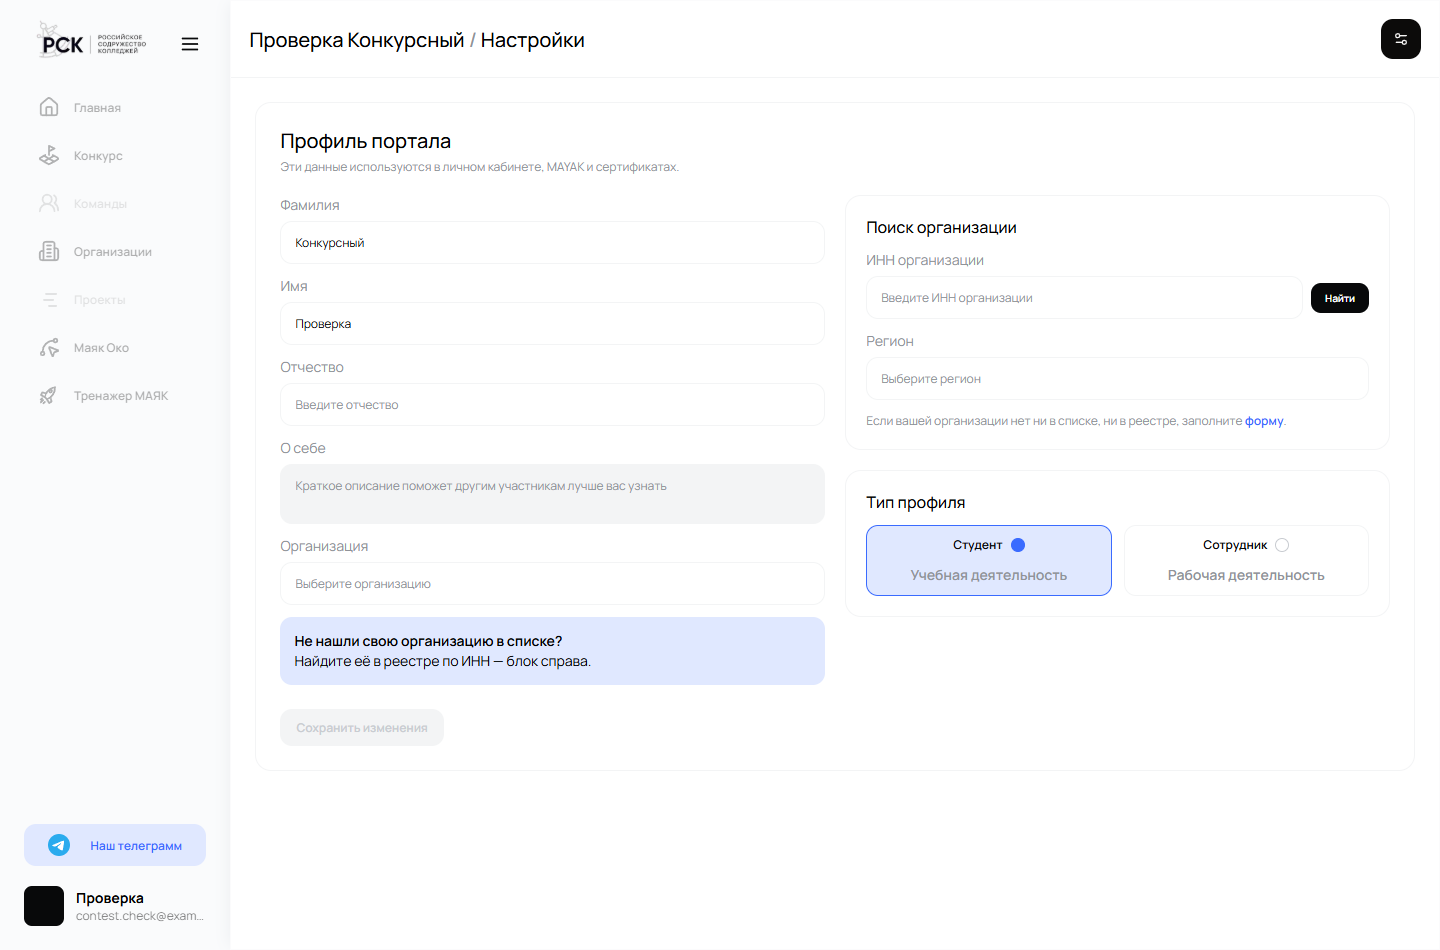
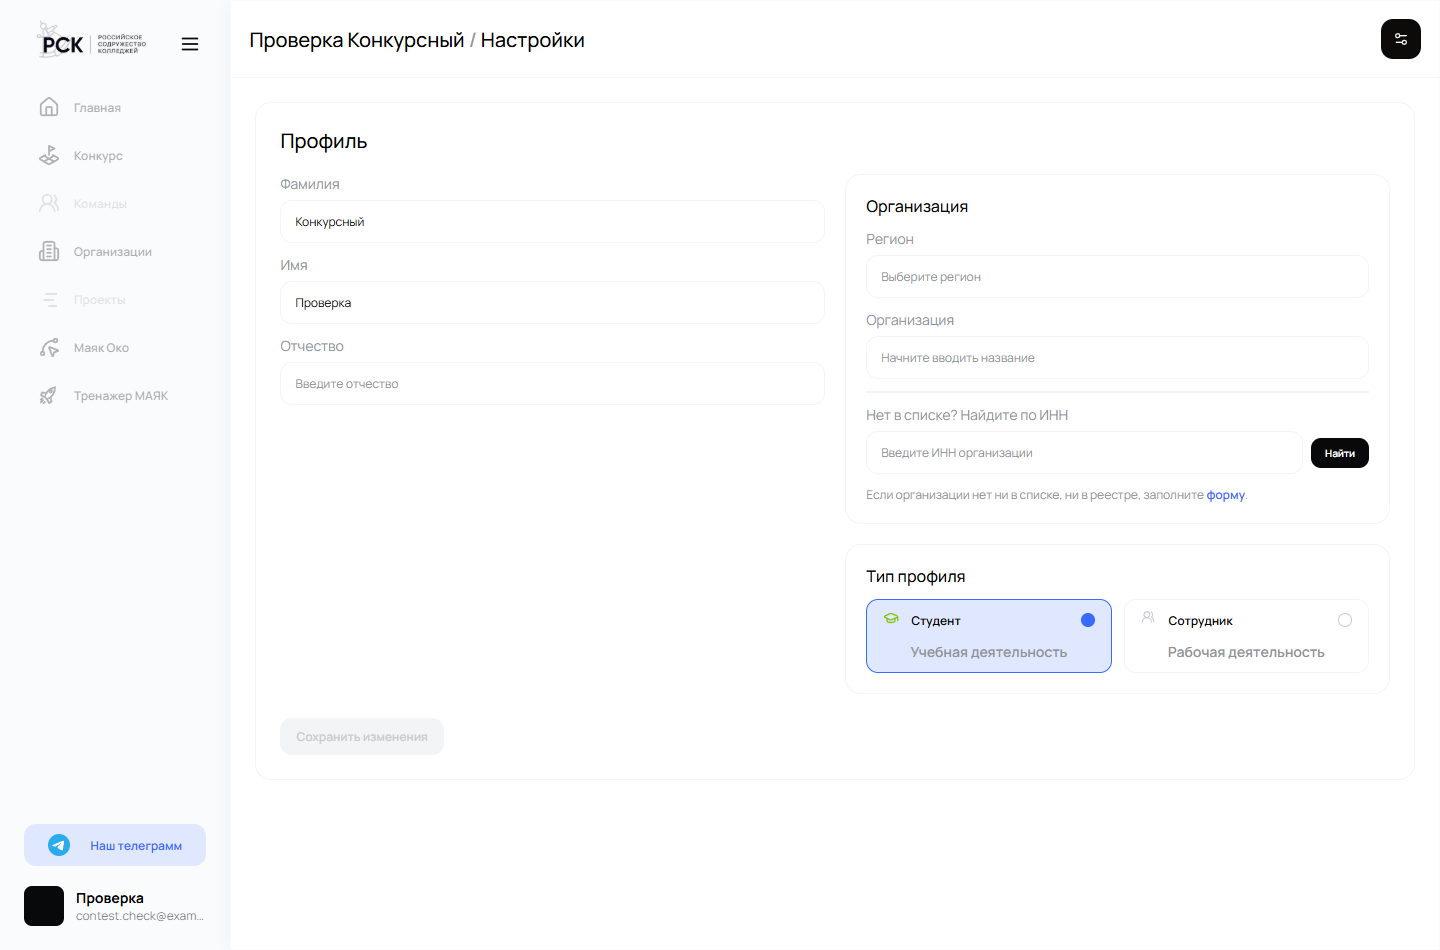
style(profile): организация одним блоком справа, регион перед организацией
По правкам с макета:
- заголовок «Профиль», подзаголовок убран;
- поле «О себе» убрано со страницы настроек;
- организация переехала в правую колонку и собрана в один блок: сначала
  регион, затем выбор организации, ниже поиск по ИНН для тех, кого нет
  в списке;
- подсказка «Организация станет доступна после выбора региона» убрана —
  порядок полей объясняет это сам;
- у типов профиля появились иконки.

diff --git a/src/components/features/auth/PortalProfileEditor.js b/src/components/features/auth/PortalProfileEditor.js
@@ -7,6 +7,8 @@ import Textarea from "@/components/ui/Textarea";
 import DropdownInput from "@/components/ui/Input/DropdownInput";
 import Switcher from "@/components/ui/Switcher";
 import { getPortalOrganizationId } from "@/lib/portalProfile";
+import StudentIcon from "@/assets/general/cours_les.svg";
+import StaffIcon from "@/assets/general/persons.svg";
 import OrgRegistrySearch from "@/components/features/auth/OrgRegistrySearch";
 import { primePortalProfileCache } from "@/lib/portalProfileClient";
 import { removeCookie, setCookie } from "@/utils/cookies";
@@ -46,7 +48,7 @@ function Field({ label, children }) {
 
 // Тип профиля карточками, а не переключателем: у каждого варианта есть
 // пояснение, и промахнуться сложнее.
-function RoleCard({ value, current, onSelect, title, hint }) {
+function RoleCard({ value, current, onSelect, title, hint, Icon }) {
     const isActive = current === value;
     return (
         <button
@@ -57,10 +59,13 @@ function RoleCard({ value, current, onSelect, title, hint }) {
                 border: `1.5px solid ${isActive ? "var(--color-blue)" : "var(--color-gray-plus-50)"}`,
                 background: isActive ? "var(--color-blue-noise)" : "transparent",
             }}>
-            <span className="flex items-center justify-between gap-[0.5rem]">
-                {/* Цвет задаём явно: у неактивной карточки текст сливался с фоном. */}
-                <span className="big" style={{ fontWeight: 600, color: "var(--color-black)" }}>
-                    {title}
+            <span className="flex items-center justify-between gap-[0.5rem] w-full">
+                <span className="flex items-center gap-[0.5rem]">
+                    {Icon ? <Icon style={{ width: "1.25rem", height: "1.25rem", color: isActive ? "var(--color-blue)" : "var(--color-gray-white)" }} /> : null}
+                    {/* Цвет задаём явно: у неактивной карточки текст сливался с фоном. */}
+                    <span className="big" style={{ fontWeight: 600, color: "var(--color-black)" }}>
+                        {title}
+                    </span>
                 </span>
                 <span
                     className="inline-block rounded-full"
@@ -332,12 +337,12 @@ export default function PortalProfileEditor({
                 Раньше всё шло одной узкой лентой, и на широком экране форма
                 занимала треть ширины, а поиск организации терялся между полями. */}
             <div className="flex flex-col gap-[1.25rem] p-[1.5rem] rounded-[1rem] max-[640px]:p-[1rem]" style={{ background: "var(--color-white)", border: "1.5px solid var(--color-gray-plus-50)" }}>
-                <div className="flex flex-col gap-[0.25rem]">
-                    <h5>{title || "Профиль портала"}</h5>
+                <h5>{title || "Профиль"}</h5>
+                {description ? (
                     <p className="text-sm" style={{ color: "var(--color-gray-black)" }}>
-                        {description || "Эти данные используются в личном кабинете, МАЯК и сертификатах."}
+                        {description}
                     </p>
-                </div>
+                ) : null}
 
                 <div className="grid grid-cols-2 gap-[1.25rem] items-start max-[900px]:grid-cols-1">
                     {/* Левая колонка — человек */}
@@ -357,40 +362,14 @@ export default function PortalProfileEditor({
                                 <Textarea inverted name="Description" placeholder="Краткое описание поможет другим участникам лучше вас узнать" value={formData.Description} onChange={(event) => updateField("Description", event.target.value)} />
                             </Field>
                         ) : null}
-
-                        <Field label="Организация">
-                            <DropdownInput
-                                ref={orgDropdownRef}
-                                id="Organization"
-                                name="Organization"
-                                placeholder={region ? "Выберите организацию" : "Сначала выберите регион"}
-                                value={formData.Organization}
-                                options={orgList}
-                                onChange={(event) => updateField("Organization", event.target.value)}
-                                onQueryChange={() => setOrgFieldTyped(true)}
-                                disabled={!region}
-                            />
-                        </Field>
-
-                        <div className="flex gap-[0.625rem] p-[0.875rem] rounded-[0.75rem]" style={{ background: "var(--color-blue-noise)" }}>
-                            <span className="text-sm">
-                                <span style={{ fontWeight: 600 }}>Не нашли свою организацию в списке?</span>
-                                <br />
-                                Найдите её в реестре по ИНН — блок справа.
-                            </span>
-                        </div>
                     </div>
 
-                    {/* Правая колонка — откуда участник */}
+                    {/* Правая колонка — организация целиком: регион, выбор из списка
+                        и поиск по ИНН, если в списке её нет. Порядок сверху вниз
+                        совпадает с порядком действий. */}
                     <div className="flex flex-col gap-[1.25rem]">
                         <div className="flex flex-col gap-[0.75rem] p-[1.25rem] rounded-[1rem] max-[640px]:p-[1rem]" style={{ border: "1.5px solid var(--color-gray-plus-50)" }}>
-                            <h6>Поиск организации</h6>
-
-                            <Field label="ИНН организации">
-                                {/* Организации из реестра: список в базе неполный, и без
-                                    этого участник из непопавшего колледжа не двигается. */}
-                                <OrgRegistrySearch showHint={false} onSelected={handleOrgFromRegistry} />
-                            </Field>
+                            <h6>Организация</h6>
 
                             <Field label="Регион">
                                 <DropdownInput
@@ -411,8 +390,30 @@ export default function PortalProfileEditor({
                                 />
                             </Field>
 
+                            <Field label="Организация">
+                                <DropdownInput
+                                    ref={orgDropdownRef}
+                                    id="Organization"
+                                    name="Organization"
+                                    placeholder={region ? "Начните вводить название" : "Сначала выберите регион"}
+                                    value={formData.Organization}
+                                    options={orgList}
+                                    onChange={(event) => updateField("Organization", event.target.value)}
+                                    onQueryChange={() => setOrgFieldTyped(true)}
+                                    disabled={!region}
+                                />
+                            </Field>
+
+                            <hr style={{ borderColor: "var(--color-gray-plus-50)" }} />
+
+                            <Field label="Нет в списке? Найдите по ИНН">
+                                {/* Список в базе неполный, и без этого участник
+                                    из непопавшего колледжа не двигается дальше. */}
+                                <OrgRegistrySearch showHint={false} onSelected={handleOrgFromRegistry} />
+                            </Field>
+
                             <p className="text-sm" style={{ color: "var(--color-gray-black)" }}>
-                                Если вашей организации нет ни в списке, ни в реестре, заполните{" "}
+                                Если организации нет ни в списке, ни в реестре, заполните{" "}
                                 <Link target="_blank" className="text-(--color-blue)" href="https://forms.yandex.ru/u/690391e1068ff0a3ba625eef">
                                     форму
                                 </Link>
@@ -424,23 +425,18 @@ export default function PortalProfileEditor({
                             <div className="flex flex-col gap-[0.75rem] p-[1.25rem] rounded-[1rem] max-[640px]:p-[1rem]" style={{ border: "1.5px solid var(--color-gray-plus-50)" }}>
                                 <h6>Тип профиля</h6>
                                 <div className="grid grid-cols-2 gap-[0.75rem] max-[640px]:grid-cols-1">
-                                    <RoleCard value="student" current={role} onSelect={setRole} title="Студент" hint="Учебная деятельность" />
-                                    <RoleCard value="teacher" current={role} onSelect={setRole} title="Сотрудник" hint="Рабочая деятельность" />
+                                    <RoleCard value="student" current={role} onSelect={setRole} title="Студент" hint="Учебная деятельность" Icon={StudentIcon} />
+                                    <RoleCard value="teacher" current={role} onSelect={setRole} title="Сотрудник" hint="Рабочая деятельность" Icon={StaffIcon} />
                                 </div>
                             </div>
                         ) : null}
                     </div>
                 </div>
 
-                <div className="flex items-center justify-between gap-[1rem] pt-[0.25rem] max-[640px]:flex-col max-[640px]:items-stretch">
+                <div className="flex items-center gap-[1rem] pt-[0.25rem] max-[640px]:flex-col max-[640px]:items-stretch">
                     <Button className="w-fit! max-[640px]:w-full!" onClick={handleSubmit} disabled={isSaving || !isDirty}>
                         {isSaving ? "Сохранение..." : submitLabel}
                     </Button>
-                    {!region ? (
-                        <span className="text-sm" style={{ color: "var(--color-gray-black)" }}>
-                            Организация станет доступна после выбора региона — или найдите её по ИНН.
-                        </span>
-                    ) : null}
                 </div>
             </div>
         </>

diff --git a/src/components/pages/profile/settings.js b/src/components/pages/profile/settings.js
@@ -10,9 +10,7 @@ import { fetchPortalProfileClient } from "@/lib/portalProfileClient";
 const PROFILE_LOADING_LABEL = "\u0417\u0430\u0433\u0440\u0443\u0436\u0430\u0435\u043C \u043F\u0440\u043E\u0444\u0438\u043B\u044C...";
 const PROFILE_EMPTY_LABEL = "\u041D\u0435\u0437\u0430\u043F\u043E\u043B\u043D\u0435\u043D\u043E";
 const SETTINGS_LABEL = "\u041D\u0430\u0441\u0442\u0440\u043E\u0439\u043A\u0438";
-const PROFILE_TITLE = "\u041F\u0440\u043E\u0444\u0438\u043B\u044C \u043F\u043E\u0440\u0442\u0430\u043B\u0430";
-const PROFILE_DESCRIPTION =
-    "\u042D\u0442\u0438 \u0434\u0430\u043D\u043D\u044B\u0435 \u0438\u0441\u043F\u043E\u043B\u044C\u0437\u0443\u044E\u0442\u0441\u044F \u0432 \u043B\u0438\u0447\u043D\u043E\u043C \u043A\u0430\u0431\u0438\u043D\u0435\u0442\u0435, MAYAK \u0438 \u0441\u0435\u0440\u0442\u0438\u0444\u0438\u043A\u0430\u0442\u0430\u0445.";
+const PROFILE_TITLE = "Профиль";
 const SAVE_PROFILE_LABEL = "\u0421\u043E\u0445\u0440\u0430\u043D\u0438\u0442\u044C \u0438\u0437\u043C\u0435\u043D\u0435\u043D\u0438\u044F";
 
 export default function SettingsPage({ goTo }) {
@@ -75,8 +73,6 @@ export default function SettingsPage({ goTo }) {
                 mode="full"
                 profilePayload={userData}
                 title={PROFILE_TITLE}
-                description={PROFILE_DESCRIPTION}
-                showDescription
                 showRole
                 submitLabel={SAVE_PROFILE_LABEL}
                 onSaved={(payload) => {
